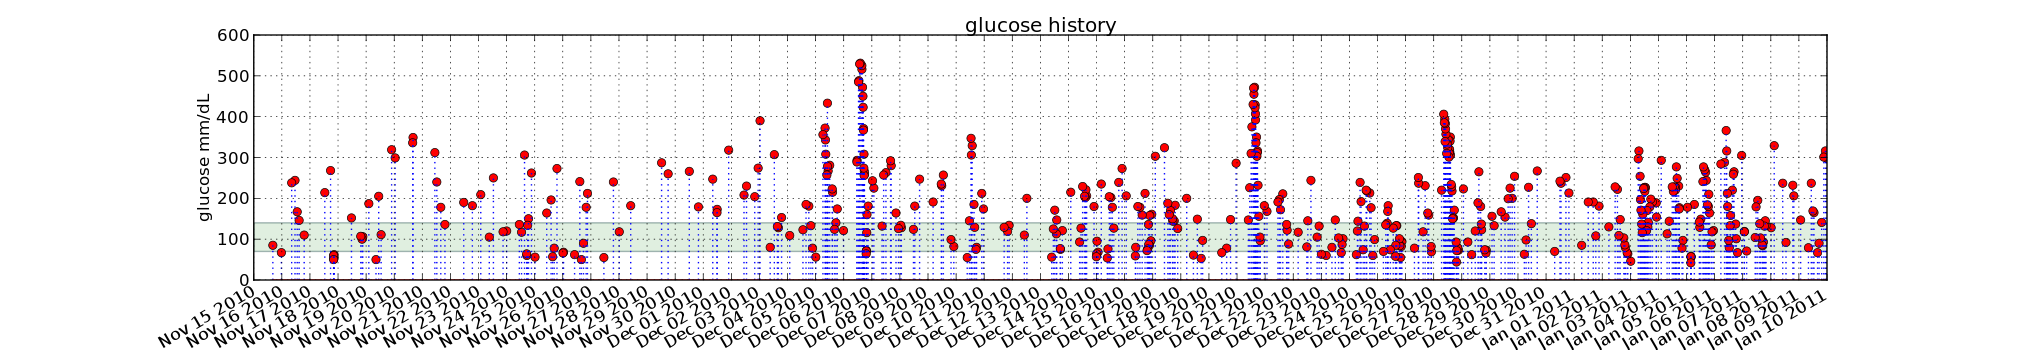
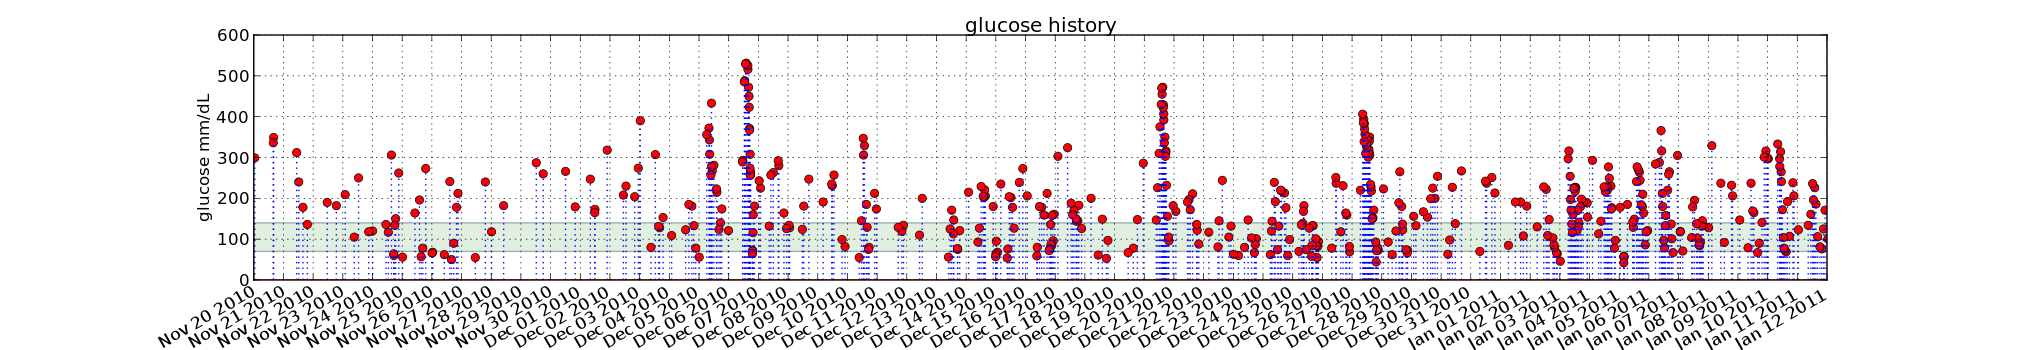
nice graph of last few days

Changed region(s): [[0.0931, 0.1714, 0.9, 1.0], [0.1241, 0.3714, 0.1552, 0.4571]]

diff --git a/src/data/test.html b/src/data/test.html
@@ -33,5 +33,9 @@
        ></embed>
 </div>
 
+<div>
+<img src="few-days.png">
+</div>
+
 </body>
 </html>

diff --git a/src/data/make_series.py b/src/data/make_series.py
@@ -70,6 +70,22 @@ def daily_timseries( ts ):
   ax.grid(True)
   ax.set_xlabel('time')
 
+  majorLocator   = dates.DayLocator( )
+  majorFormatter = dates.AutoDateFormatter( majorLocator )
+
+  minorLocator   = dates.HourLocator( interval=6 )
+  minorFormatter = dates.AutoDateFormatter( minorLocator )
+
+  ax.xaxis.set_major_locator(majorLocator)
+  ax.xaxis.set_major_formatter(majorFormatter)
+
+  ax.xaxis.set_minor_locator(minorLocator)
+  ax.xaxis.set_minor_formatter(minorFormatter)
+
+  labels = ax.get_xminorticklabels()
+  plt.setp(labels, rotation=30, fontsize='small')
+  plt.setp(ax.get_xmajorticklabels(), rotation=30, fontsize='medium')
+
   xmin, xmax = ax.get_xlim( )
   log.info( pformat( {
     'xlim': [ dates.num2date( xmin ), dates.num2date( xmax ) ],
@@ -78,7 +94,7 @@ def daily_timseries( ts ):
   #ax.set_ylabel('glucose mm/dL')
   return canvas
 
-def tiled_axis( ts ):
+def tiled_axis( ts, filename=None ):
   fig = Figure( ( 2.56 * 4, 2.56 * 4), 300 )
   canvas = FigureCanvas(fig)
   #ax = fig.add_subplot(111)
@@ -141,7 +157,7 @@ def tiled_axis( ts ):
 
     labels = ax.get_xminorticklabels()
     plt.setp(labels, rotation=30, fontsize='small')
-    plt.setp(ax.get_xmajorticklabels(), rotation=30, fontsize='big')
+    plt.setp(ax.get_xmajorticklabels(), rotation=30, fontsize='medium')
 
     xmin, xmax = ax.get_xlim( )
     
@@ -153,6 +169,10 @@ def tiled_axis( ts ):
   for i, day in enumerate(timestamps):
     ax = grid[i]
     get_axis( ax, [ day, day + delta ] )
+    name = '%s-%d.png' % ( day.isoformat( ), i )
+    #fig.savefig( name )
+    canvas.print_figure(name)
+    # fig.clf()
     #make_plot( ax, 
 
   #ax.set_ylabel('glucose mm/dL')
@@ -198,7 +218,8 @@ def giant_timeseries( ts ):
   # visualize glucose using stems
   # XXX: gets a list of days.
   timestamps = glucose.get_days( ts.time )
-  xmin, xmax = timestamps[ 0 ], timestamps[ -1 ]
+  delta = dates.relativedelta( days=1, hours=12 )
+  xmin, xmax = ( timestamps[ 0 ], timestamps[ -1 ] + delta )
   ax.set_xlim( [ xmin, xmax ] )
   markers, stems, baselines = ax.stem( ts.time, ts.value,
            linefmt='b:' )
@@ -211,14 +232,23 @@ def giant_timeseries( ts ):
   ax.set_title('glucose history')
   ax.grid(True)
   ax.set_xlabel('time')
+
   majorLocator   = dates.DayLocator( )
   majorFormatter = dates.AutoDateFormatter( majorLocator )
+
+  minorLocator   = dates.HourLocator( interval=6 )
+  minorFormatter = dates.AutoDateFormatter( minorLocator )
 
   ax.xaxis.set_major_locator(majorLocator)
   ax.xaxis.set_major_formatter(majorFormatter)
 
-  #ax.xaxis.set_minor_locator(minorLocator)
-  #ax.xaxis.set_minor_formatter(minorFormatter)
+  ax.xaxis.set_minor_locator(minorLocator)
+  ax.xaxis.set_minor_formatter(minorFormatter)
+
+  labels = ax.get_xminorticklabels()
+  plt.setp(labels, rotation=30, fontsize='small')
+  plt.setp(ax.get_xmajorticklabels(), rotation=30, fontsize='medium')
+
 
   xmin, xmax = ax.get_xlim( )
   log.info( pformat( {
@@ -235,14 +265,16 @@ if __name__ == '__main__':
   options, args = parser.parse_args( sys.argv )
   infile, outfile = args[ 1 ], args[ 2 ]
   if infile == '-':
-    infile = sys.stdout
+    infile = sys.stdin
 
+  log.info( 'infile: %s' % infile )
   data = get_series( infile )
 
   #canvas = daily_timseries( data )
   #canvas = daily_axis( data )
-  #canvas = giant_timeseries( data )
-  canvas = tiled_axis( data )
+  #canvas = last_day( data )
+  canvas = giant_timeseries( data )
+  #canvas = tiled_axis( data )
   canvas.print_figure(outfile)
 
 
